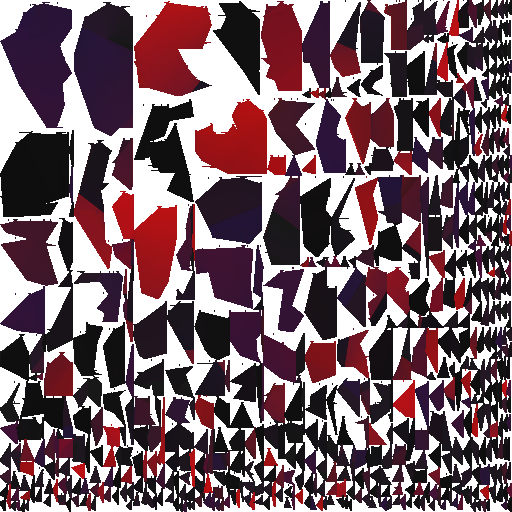
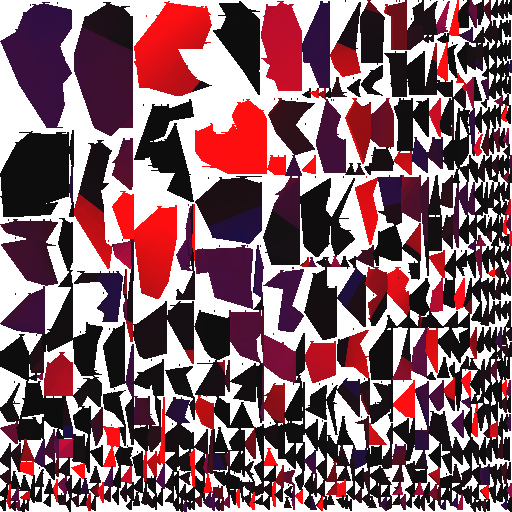
overnight bake, 4 bounces, 256/256, 2.0 light intensity, 0.3 reflectance

diff --git a/src/lightmap.cpp b/src/lightmap.cpp
@@ -433,16 +433,18 @@ internal Vec3 RaycastColor(Array<SampleGroup> sampleGroups, Vec3 pos, Vec3 norma
             .width = { -2.0f, 0.0f, 0.0f },
             .height = { 0.0f, 0.0f, -2.2f },
             .color = Vec3 { 1.0f, 0.0f, 0.0f },
-            .intensity = 1.0f
+            .intensity = 2.0f
         },
         {
             .origin = { 2.0f, -1.544835f + 0.005f, 2.24f },
             .width = { 2.0f, 0.0f, 0.0f },
             .height = { 0.0f, 0.0f, -2.2f },
             .color = Vec3 { 0.0f, 0.0f, 1.0f },
-            .intensity = 1.0f
+            .intensity = 2.0f
         },
     };
+
+    const float32 MATERIAL_REFLECTANCE = 0.3f;
 
     const uint32 numSamples = sampleGroups.size * SAMPLES_PER_GROUP;
 
@@ -600,7 +602,8 @@ internal Vec3 RaycastColor(Array<SampleGroup> sampleGroups, Vec3 pos, Vec3 norma
                         (float32)pixelB / 255.0f
                     };
                     // TODO adjust color based on material properties, e.g. material should absorb some light
-                    outputColor += sampleContribution * pixelColor;
+                    float32 weight = MATERIAL_REFLECTANCE;
+                    outputColor += weight * sampleContribution * pixelColor;
                 }
             }
         }

diff --git a/src/lightmap.h b/src/lightmap.h
@@ -28,7 +28,7 @@ const uint64 PLANE_RIGHT = 2;
 const uint64 PLANE_FLOOR = 3;
 #define PLANE_TO_LIGHT PLANE_FLOOR
 
-const uint32 LIGHTMAP_NUM_BOUNCES = 2;
+const uint32 LIGHTMAP_NUM_BOUNCES = 4;
 const VkFilter LIGHTMAP_TEXTURE_FILTER = VK_FILTER_LINEAR;
 
 const float32 RESOLUTION_PER_WORLD_UNIT = 256.0f;
